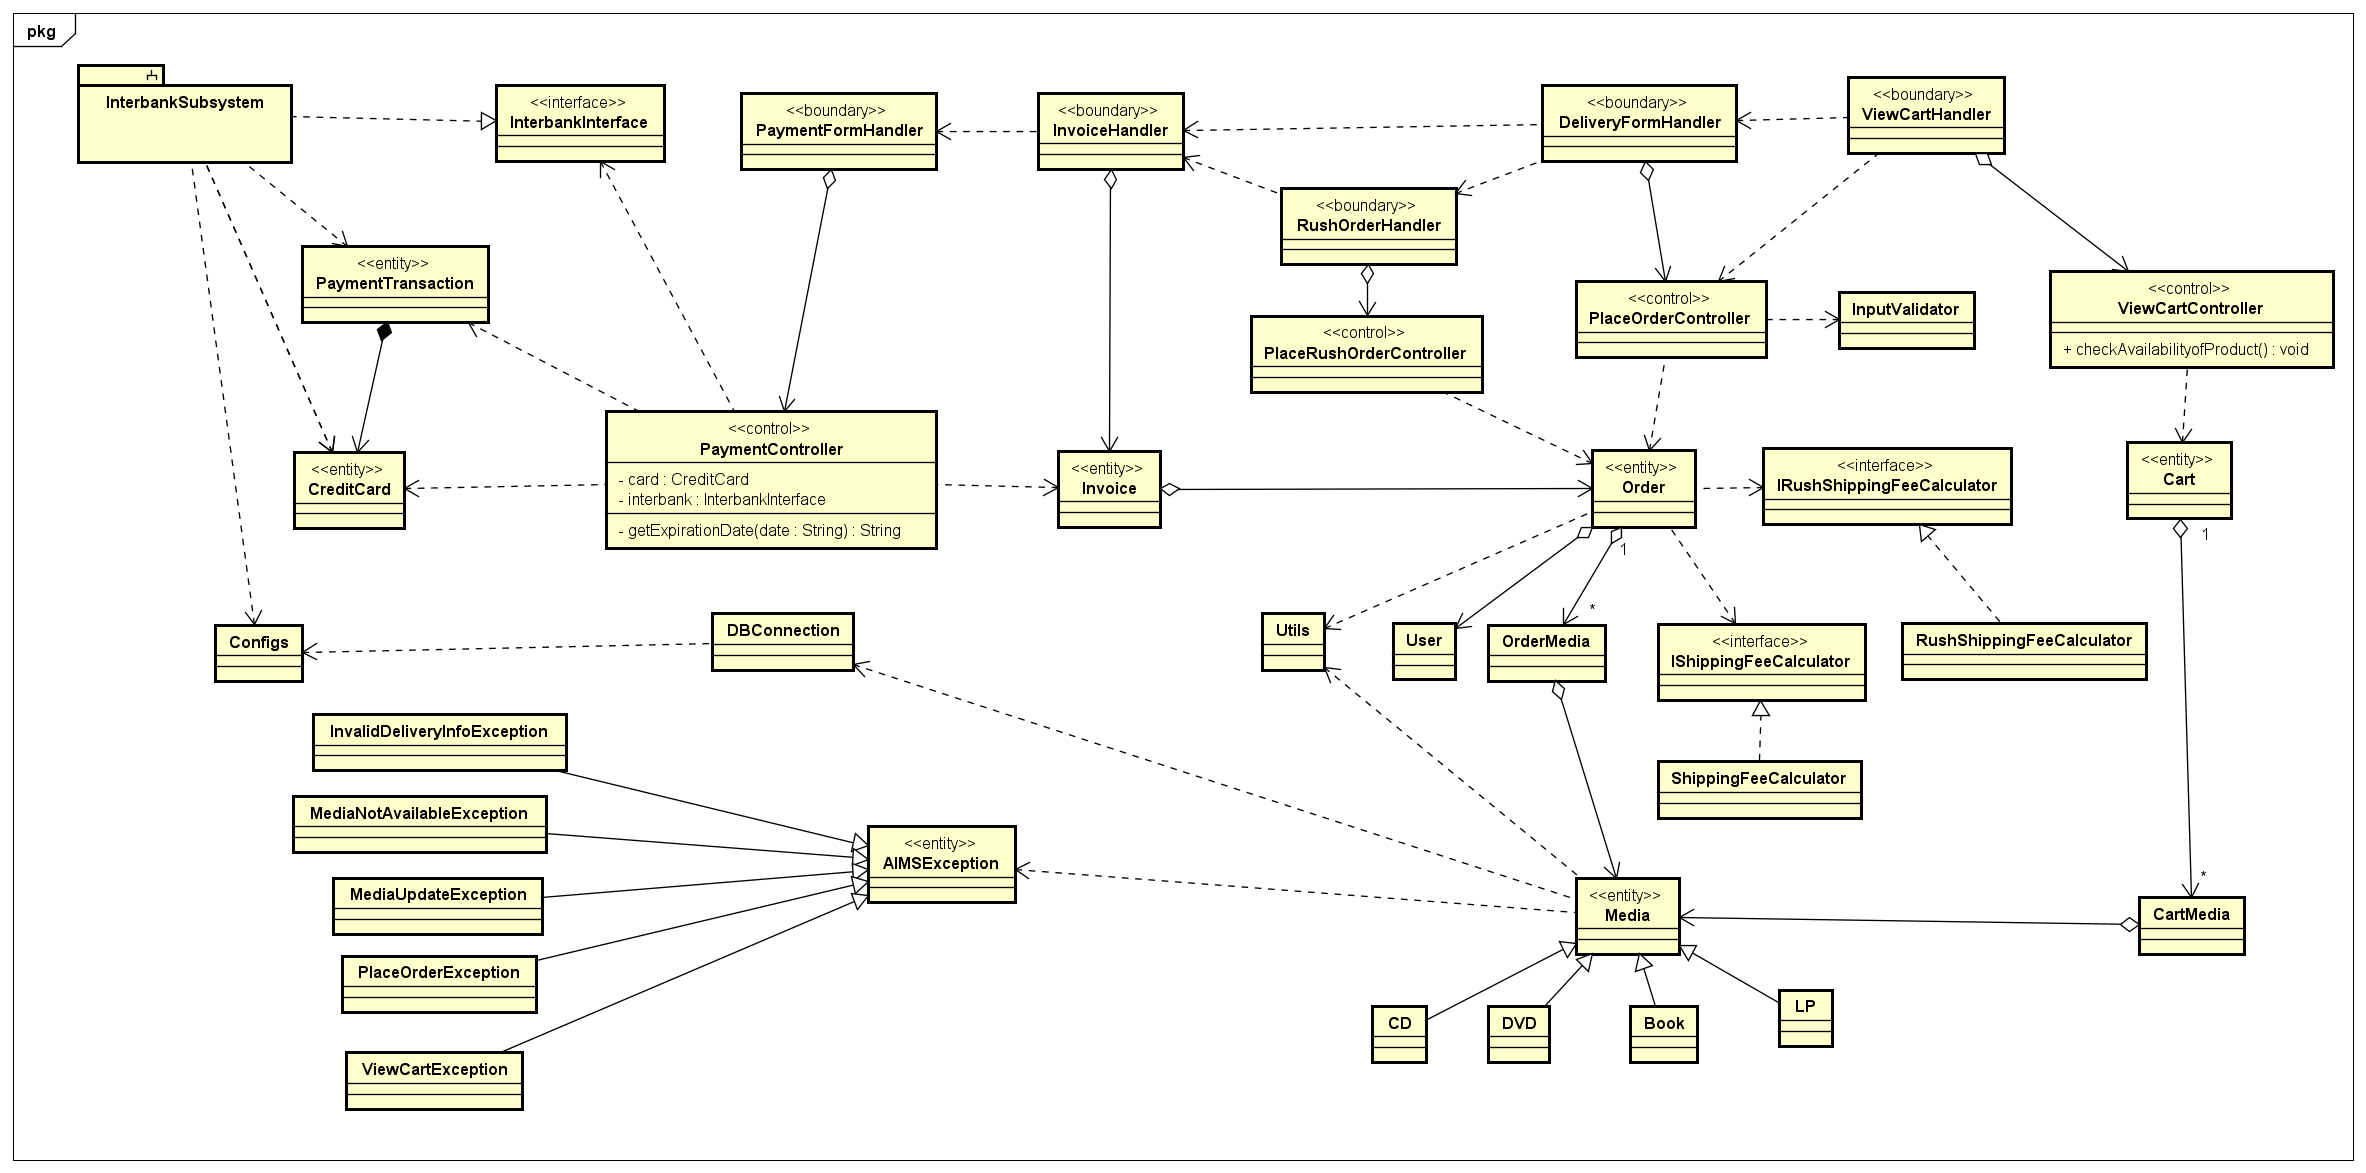
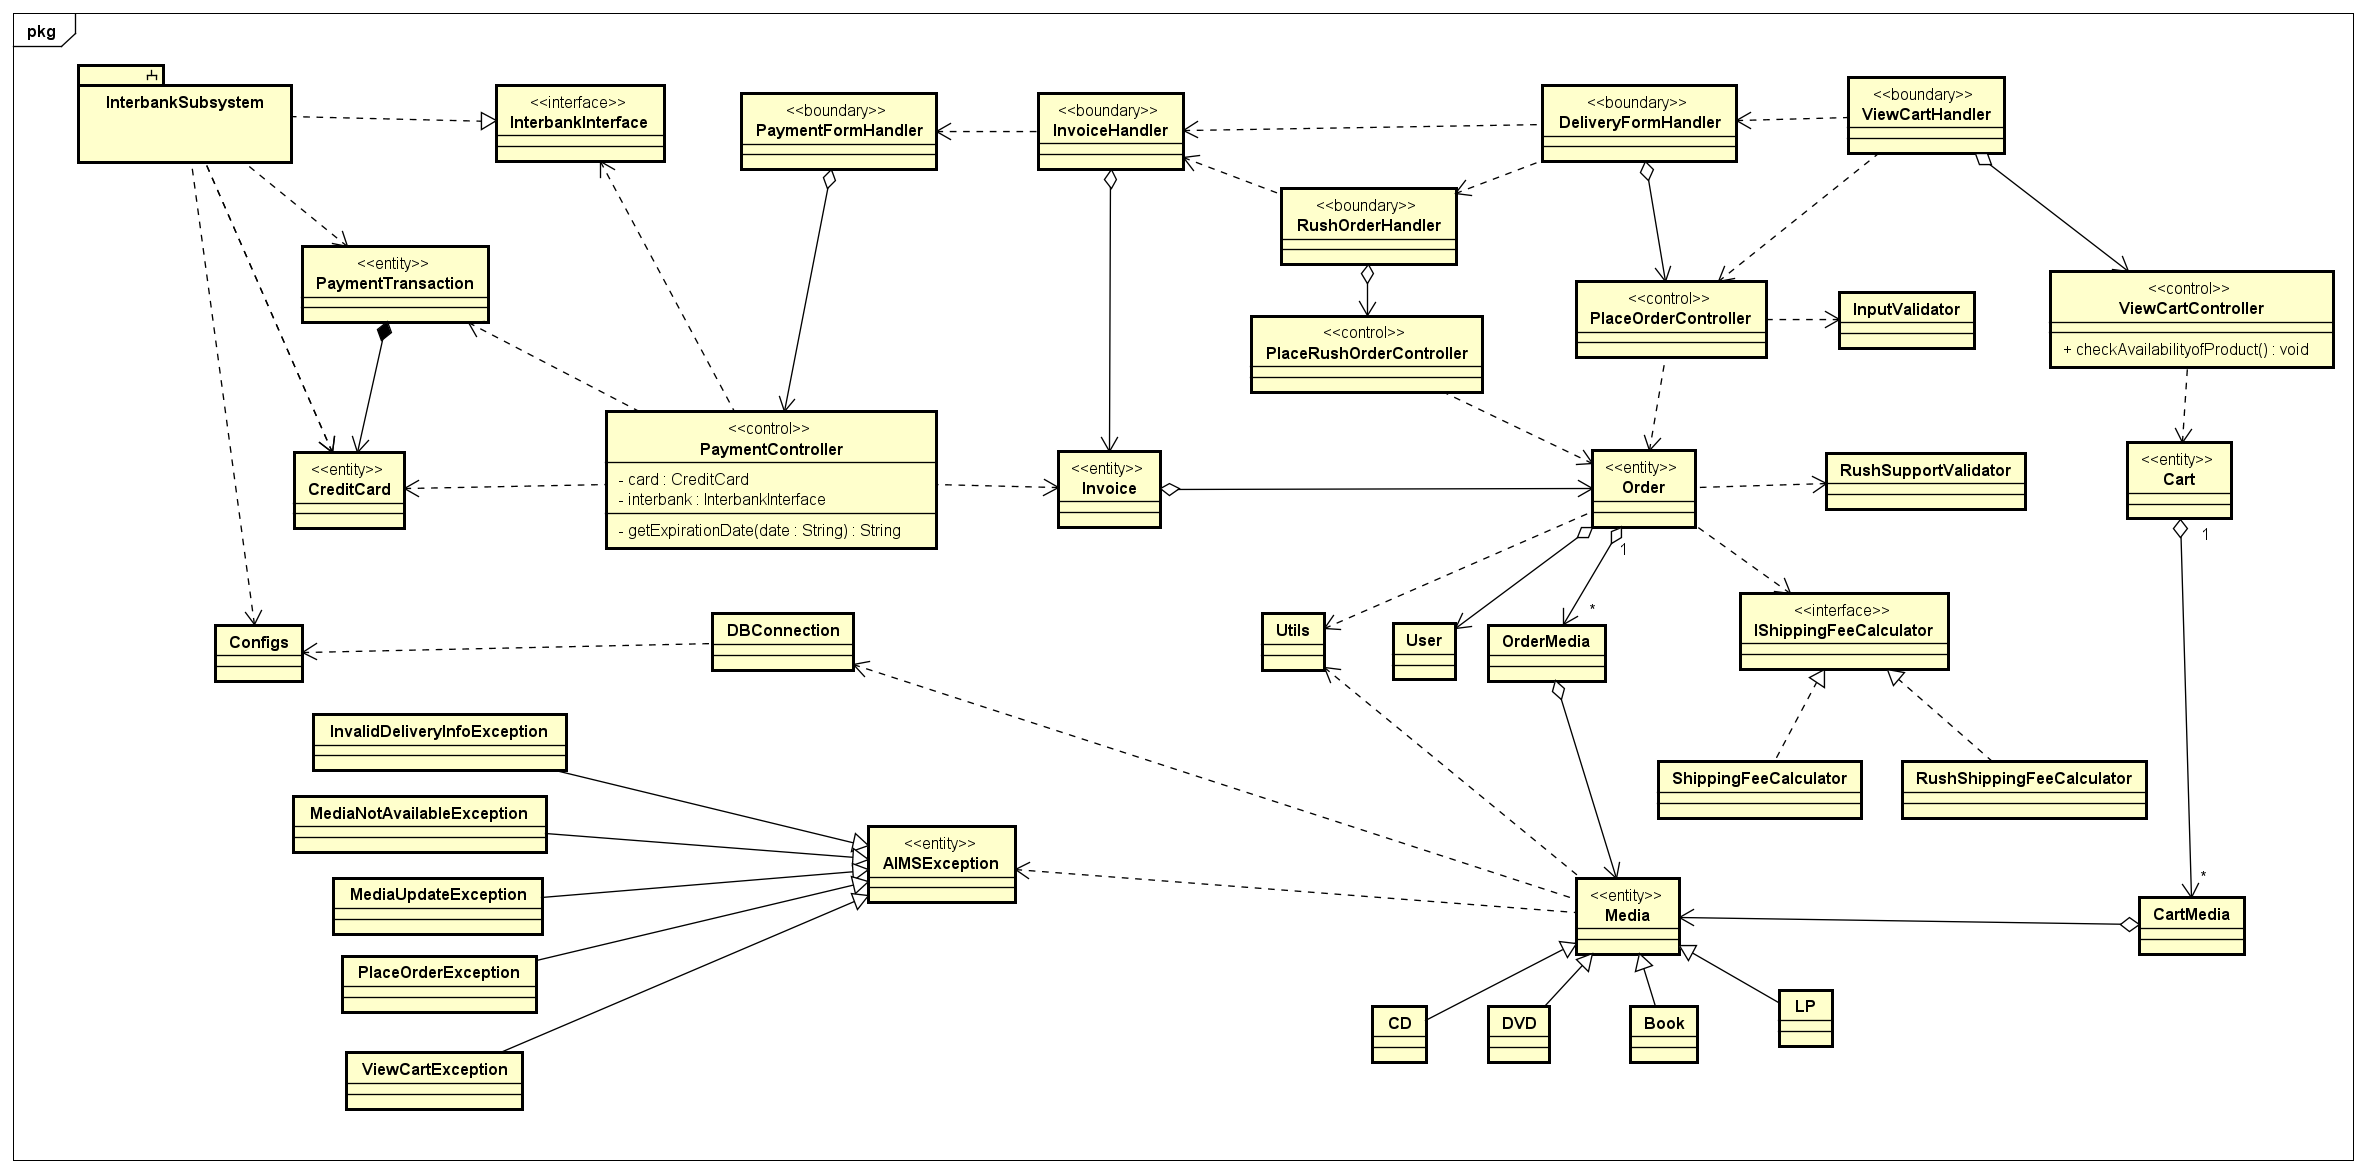
lab5: refactor code

diff --git a/Programming/src/controller/PlaceRushOrderController.java b/Programming/src/controller/PlaceRushOrderController.java
@@ -1,5 +1,6 @@
 package controller;
 
+import java.util.HashMap;
 import java.util.Random;
 import java.util.logging.Logger;
 import java.util.regex.Matcher;
@@ -7,6 +8,7 @@ import java.util.regex.Pattern;
 
 import entity.media.Media;
 import entity.order.Order;
+import shippingFee.RushShippingFeeCalculator;
 
 /**
  * class giup them chuc nang dat hang nhanh
@@ -20,48 +22,11 @@ public class PlaceRushOrderController {
 	 */
 	private static Logger LOGGER = utils.Utils.getLogger(PlaceOrderController.class.getName());
 	
-	/**
-	 * kiem tra dia chi co ho tro dat hang nhanh hay khong
-	 * @param address: dia chi nhan hang
-	 * @return result
-	 */
-	public boolean checkAddressRushSupport(String address) {
-		if(address == null) return false;
-    	
-    	String regex = "^[\\w\\s]+$";
-  	  
-        Pattern p = Pattern.compile(regex);
-  
-        Matcher m = p.matcher(address);
-        
-        boolean isInHaNoi = address.toLowerCase().contains("ha noi") || address.toLowerCase().contains("hà nội");
-
-        return m.matches() && isInHaNoi;
-	}
-	
-	/**
-	 * kiem tra san pham co ho tro dat hang nhanh hay khong
-	 * @param media: san pham trong don hang
-	 * @return result
-	 */
-	public boolean checkMediaRushSupport(Media media) {
-		if(media == null) return false;
+	public void placeRushOrder(Order order, HashMap deliveryInfo) {
+		if(!order.checkRushSupport()) return;
 		
-		if(!media.getRushSupport()) return false;
+		order.setShippingFee(new RushShippingFeeCalculator());
+		order.setDeliveryInfo(deliveryInfo);
+	}
 		
-		return true;
-	}
-	
-	/**
-	 * tinh gia tri phi ship moi
-	 * @param order: don hang su dung dat hang nhanh
-	 * @return fees: phi ship moi
-	 */
-	public int calculateShippingFee(Order order) {
-		Random rand = new Random();
-		int fees = (int)( ( (rand.nextFloat()*10)/100 ) * order.getAmount() );
-		LOGGER.info("Order Amount: " + order.getAmount() + " -- Shipping Fees: " + fees);
-		return fees;
-	}
-	
 }

diff --git a/Programming/src/controller/PlaceOrderController.java b/Programming/src/controller/PlaceOrderController.java
@@ -83,54 +83,4 @@ public class PlaceOrderController extends BaseController{
     public void validateDeliveryInfo(HashMap<String, String> info) throws InterruptedException, IOException{
     	
     }
-    
-    public boolean validatePhoneNumber(String phoneNumber) {
-    	if(phoneNumber.length() != 10) {
-    		return false;
-    	}
-    	if(!phoneNumber.startsWith("0")) return false;
-    	try {
-    		Integer.parseInt(phoneNumber);
-    	} catch(NumberFormatException e) {
-    		return false;
-    	}
-    	return true;
-    }
-    
-    public boolean validateName(String name) {
-    	if(name == null) return false;
-  
-    	String regex = "^[A-Za-z]+$";
-    	  
-        Pattern p = Pattern.compile(regex);
-  
-        Matcher m = p.matcher(name);
-
-        return m.matches();
-    }
-    
-    public boolean validateAddress(String address) {
-    	if(address == null) return false;
-    	
-    	String regex = "^[\\w\\s]+$";
-  	  
-        Pattern p = Pattern.compile(regex);
-  
-        Matcher m = p.matcher(address);
-
-        return m.matches();
-    }
-    
-
-    /**
-     * This method calculates the shipping fees of order
-     * @param order
-     * @return shippingFee
-     */
-    public int calculateShippingFee(Order order){
-        Random rand = new Random();
-        int fees = (int)( ( (rand.nextFloat()*10)/100 ) * order.getAmount() );
-        LOGGER.info("Order Amount: " + order.getAmount() + " -- Shipping Fees: " + fees);
-        return fees;
-    }
 }

diff --git a/Programming/src/entity/order/Order.java b/Programming/src/entity/order/Order.java
@@ -4,12 +4,14 @@ import java.util.ArrayList;
 import java.util.HashMap;
 import java.util.List;
 
+import shippingFee.IShippingFeeCalculator;
 import utils.Configs;
+import validation.RushSupportValidator;
 
 public class Order {
     
     private int shippingFees;
-    private List lstOrderMedia;
+    private List<OrderMedia> lstOrderMedia;
     private HashMap<String, String> deliveryInfo;
 
     public Order(){
@@ -59,6 +61,21 @@ public class Order {
             amount += om.getPrice();
         }
         return (int) (amount + (Configs.PERCENT_VAT/100)*amount);
+    }
+    
+    public void setShippingFee(IShippingFeeCalculator calculator) {
+    	this.shippingFees = calculator.calculateShippingFee(this.getAmount());
+    }
+    
+    public boolean checkRushSupport() {
+    	RushSupportValidator validator = new RushSupportValidator();
+    	
+    	if(!validator.checkAddressRushSupport(this.deliveryInfo.get("address"))) return false;
+    	for(OrderMedia orderMedia: this.lstOrderMedia) {
+    		if(validator.checkMediaRushSupport(orderMedia)) return false;
+    	}
+    	
+    	return true;
     }
 
 }

diff --git a/Programming/src/validation/RushSupportValidator.java b/Programming/src/validation/RushSupportValidator.java
@@ -1,0 +1,41 @@
+package validation;
+
+import java.util.regex.Matcher;
+import java.util.regex.Pattern;
+
+import entity.media.Media;
+import entity.order.OrderMedia;
+
+public class RushSupportValidator {
+	/**
+	 * kiem tra dia chi co ho tro dat hang nhanh hay khong
+	 * @param address: dia chi nhan hang
+	 * @return result
+	 */
+	public boolean checkAddressRushSupport(String address) {
+		if(address == null) return false;
+    	
+    	String regex = "^[\\w\\s]+$";
+  	  
+        Pattern p = Pattern.compile(regex);
+  
+        Matcher m = p.matcher(address);
+        
+        boolean isInHaNoi = address.toLowerCase().contains("ha noi") || address.toLowerCase().contains("hà nội");
+
+        return m.matches() && isInHaNoi;
+	}
+	
+	/**
+	 * kiem tra san pham co ho tro dat hang nhanh hay khong
+	 * @param media: san pham trong don hang
+	 * @return result
+	 */
+	public boolean checkMediaRushSupport(OrderMedia orderMedia) {
+		if(orderMedia == null) return false;
+		
+		if(!orderMedia.getMedia().getRushSupport()) return false;
+		
+		return true;
+	}
+}

diff --git a/Programming/src/validation/InputValidator.java b/Programming/src/validation/InputValidator.java
@@ -1,0 +1,48 @@
+package validation;
+
+import java.util.regex.Matcher;
+import java.util.regex.Pattern;
+
+/**
+ * class dung de validate cac thong tin dau vao
+ * @author Duyen
+ *
+ */
+public class InputValidator {
+	public boolean validateName(String name) {
+		if(name == null) return false;
+		  
+    	String regex = "^[A-Za-z]+$";
+    	  
+        Pattern p = Pattern.compile(regex);
+  
+        Matcher m = p.matcher(name);
+
+        return m.matches();
+	}
+	
+	public boolean validatePhoneNumber(String phoneNumber) {
+		if(phoneNumber.length() != 10) {
+    		return false;
+    	}
+    	if(!phoneNumber.startsWith("0")) return false;
+    	try {
+    		Integer.parseInt(phoneNumber);
+    	} catch(NumberFormatException e) {
+    		return false;
+    	}
+    	return true;
+	}
+	
+	public boolean validateAddress(String address) {
+		if(address == null) return false;
+    	
+    	String regex = "^[\\w\\s]+$";
+  	  
+        Pattern p = Pattern.compile(regex);
+  
+        Matcher m = p.matcher(address);
+
+        return m.matches();
+	}
+}

diff --git a/Programming/src/shippingFee/RushShippingFeeCalculator.java b/Programming/src/shippingFee/RushShippingFeeCalculator.java
@@ -1,0 +1,23 @@
+package shippingFee;
+
+import java.util.Random;
+import java.util.logging.Logger;
+
+import controller.PlaceOrderController;
+
+public class RushShippingFeeCalculator implements IShippingFeeCalculator{
+	
+	/**
+     * Just for logging purpose
+     */
+    private static Logger LOGGER = utils.Utils.getLogger(PlaceOrderController.class.getName());
+
+	@Override
+	public int calculateShippingFee(int amount) {
+		Random rand = new Random();
+		int fees = (int)( ( (rand.nextFloat()*10)/100 ) * amount );
+		LOGGER.info("Order Amount: " + amount + " -- Shipping Fees: " + fees);
+		return fees;
+	}
+
+}

diff --git a/Programming/src/shippingFee/ShippingFeeCalculator.java b/Programming/src/shippingFee/ShippingFeeCalculator.java
@@ -1,0 +1,23 @@
+package shippingFee;
+
+import java.util.Random;
+import java.util.logging.Logger;
+
+import controller.PlaceOrderController;
+
+public class ShippingFeeCalculator implements IShippingFeeCalculator{
+
+	/**
+     * Just for logging purpose
+     */
+    private static Logger LOGGER = utils.Utils.getLogger(PlaceOrderController.class.getName());
+
+	@Override
+	public int calculateShippingFee(int amount) {
+		Random rand = new Random();
+		int fees = (int)( ( (rand.nextFloat()*10)/100 ) * amount );
+		LOGGER.info("Order Amount: " + amount + " -- Shipping Fees: " + fees);
+		return fees;
+	}
+
+}

diff --git a/Programming/src/views/screen/shipping/ShippingScreenHandler.java b/Programming/src/views/screen/shipping/ShippingScreenHandler.java
@@ -81,7 +81,7 @@ public class ShippingScreenHandler extends BaseScreenHandler implements Initiali
 		}
 	
 		// calculate shipping fees
-		int shippingFees = getBController().calculateShippingFee(order);
+		int shippingFees = order.getShippingFees();
 		order.setShippingFees(shippingFees);
 		order.setDeliveryInfo(messages);
 		

diff --git a/Programming/src/shippingFee/IShippingFeeCalculator.java b/Programming/src/shippingFee/IShippingFeeCalculator.java
@@ -1,0 +1,5 @@
+package shippingFee;
+
+public interface IShippingFeeCalculator {
+	public int calculateShippingFee(int amount);
+}	
